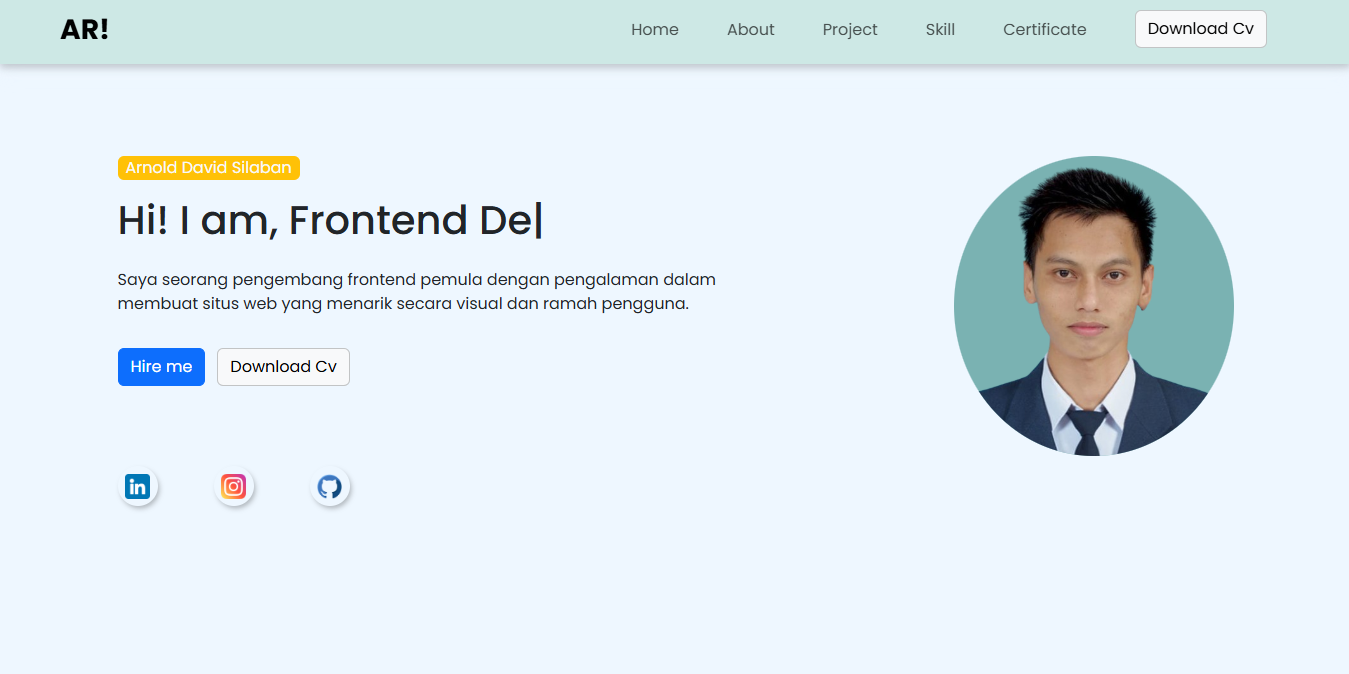
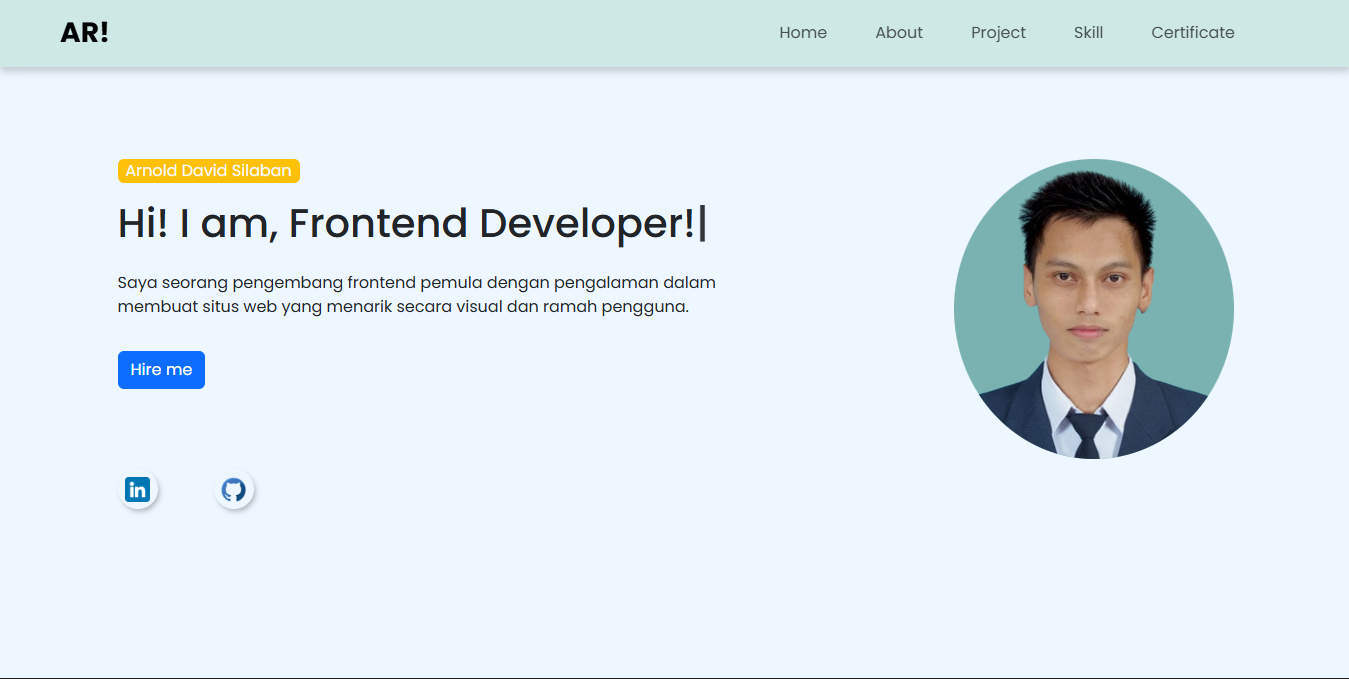
update content

diff --git a/components/pages/skill.tsx b/components/pages/skill.tsx
@@ -8,7 +8,6 @@ import {
   SiReact,
   SiNextdotjs,
   SiTailwindcss,
-  SiBootstrap,
   SiExpress,
   SiNodedotjs,
   SiLinux,
@@ -25,7 +24,6 @@ export default function Skill() {
     { name: "React", icon: <SiReact className="text-cyan-400" /> },
     { name: "Next.js", icon: <SiNextdotjs className="text-black" /> },
     { name: "Tailwind", icon: <SiTailwindcss className="text-cyan-500" /> },
-    { name: "Bootstrap", icon: <SiBootstrap className="text-purple-600" /> },
     { name: "ExpressJs", icon: <SiExpress className="text-black" /> },
     { name: "NodeJs", icon: <SiNodedotjs className="text-green-600" /> },
   ];
@@ -43,7 +41,7 @@ export default function Skill() {
       className="container mx-auto px-6 lg:px-12 py-20 bg-white"
     >
       <div className="text-center mb-16">
-        <h2 className="text-3xl font-bold mb-4">My Skills</h2>
+        <h2 className="text-3xl font-bold mb-4">Technical Skills</h2>
         <p className="text-gray-600 max-w-2xl mx-auto">
           Tools dan teknologi yang saya gunakan untuk membangun website dan
           infrastruktur jaringan.
@@ -51,9 +49,6 @@ export default function Skill() {
       </div>
 
       <div className="mb-12">
-        <h3 className="text-xl font-semibold text-center mb-8 text-gray-500">
-          Web Development
-        </h3>
         <div className="flex flex-wrap justify-center gap-6 md:gap-10">
           {webSkills.map((item, idx) => (
             <div
@@ -68,27 +63,21 @@ export default function Skill() {
               </span>
             </div>
           ))}
-        </div>
-      </div>
-
-      <div>
-        <h3 className="text-xl font-semibold text-center mb-8 text-gray-500">
-          Network & IT Support
-        </h3>
-        <div className="flex flex-wrap justify-center gap-6 md:gap-10">
-          {networkSkills.map((item, idx) => (
-            <div
-              key={idx}
-              className="group flex flex-col items-center gap-3 p-4 w-24 md:w-32 rounded-xl border border-transparent hover:border-gray-100 hover:shadow-lg hover:-translate-y-2 transition-all duration-300 cursor-default"
-            >
-              <div className="text-4xl md:text-5xl group-hover:scale-110 transition-transform duration-300">
-                {item.icon}
+          <div className="flex flex-wrap justify-center gap-6 md:gap-10">
+            {networkSkills.map((item, idx) => (
+              <div
+                key={idx}
+                className="group flex flex-col items-center gap-3 p-4 w-24 md:w-32 rounded-xl border border-transparent hover:border-gray-100 hover:shadow-lg hover:-translate-y-2 transition-all duration-300 cursor-default"
+              >
+                <div className="text-4xl md:text-5xl group-hover:scale-110 transition-transform duration-300">
+                  {item.icon}
+                </div>
+                <span className="text-sm font-medium text-gray-600 group-hover:text-black">
+                  {item.name}
+                </span>
               </div>
-              <span className="text-sm font-medium text-gray-600 group-hover:text-black">
-                {item.name}
-              </span>
-            </div>
-          ))}
+            ))}
+          </div>
         </div>
       </div>
     </section>

diff --git a/components/pages/experience.tsx b/components/pages/experience.tsx
@@ -9,7 +9,7 @@ export default function Experience() {
     {
       role: "Freelance IT Technician",
       company: "Self-Employed",
-      date: "2022 - Sekarang",
+      date: "2023 - Sekarang",
       location: "Remote / On-site",
       desc: "Menyediakan jasa perbaikan perangkat keras dan lunak secara mandiri. Berhasil mendiagnosa dan memperbaiki berbagai masalah laptop/PC klien, melakukan instalasi ulang OS (Windows/Linux), serta memberikan konsultasi upgrade spesifikasi hardware untuk performa optimal.",
       skills: [
@@ -24,7 +24,7 @@ export default function Experience() {
       company: "SMK Canda Bhirawa Pare",
       date: "Juli 2021 - Januari 2022",
       location: "Kediri, Jawa Timur",
-      desc: "Bertanggung jawab atas pemeliharaan laboratorium komputer. Berkolaborasi dengan tim dalam pembangunan lab baru (setup 30+ PC), konfigurasi jaringan LAN, serta troubleshooting rutin hardware dan software untuk mendukung kegiatan belajar mengajar.",
+      desc: "Bertanggung jawab atas pemeliharaan laboratorium komputer. Berkolaborasi dengan tim dalam pembangunan lab baru dan melakukan setup 30+ PC, konfigurasi jaringan LAN, serta troubleshooting rutin hardware dan software untuk mendukung kegiatan belajar mengajar.",
       skills: ["LAN Setup", "PC Assembly", "Network Configuration", "Teamwork"],
     },
   ];

diff --git a/components/pages/about.tsx b/components/pages/about.tsx
@@ -8,15 +8,15 @@ export default function About() {
       <div className="bg-[#1A73E8] text-white rounded-3xl p-8 lg:p-16 text-center shadow-2xl shadow-blue-200">
         <h2 className="text-3xl font-bold mb-6">About Me</h2>
         <p className="text-blue-100 text-lg max-w-3xl mx-auto leading-relaxed mb-10">
-          Hai! Saya David, lulusan SMK Teknik Komputer & Jaringan, {""} saya
-          punya skill dalam melakukan troubleshooting hardware dan software pada
-          komputer, instalasi OS, rakit PC.
+          Lulusan TKJ yang memiliki pemahaman kuat di Hardware & Jaringan, serta
+          antusias mempelajari sistem manajemen bisnis (POS/ERP) untuk membantu
+          operasional perusahaan
           <br />
           <br />
           <span>
             Dan juga saya suka mengikuti perkembangan teknologi hardware pada
-            komputer. Kesibukaan saya sekarang belajar coding untuk menjadi
-            fullstack web developer!
+            komputer. Saat ini saya aktif mendalami pengembangan sistem berbasis
+            web.
           </span>
         </p>
 

diff --git a/components/pages/hero.tsx b/components/pages/hero.tsx
@@ -30,8 +30,9 @@ const Hero = () => {
             </h1>
           </div>
           <p className="text-black max-w-lg mx-auto md:mx-0 leading-relaxed">
-            Saya seorang pengembang website pemula dengan pengalaman dalam
-            membuat situs web yang menarik secara visual dan ramah pengguna.
+            IT Support Specialist yang memiliki passion dalam Network
+            Infrastructure dan Web Technologies untuk menciptakan sistem yang
+            efisien
           </p>
           <div className="flex gap-4 justify-center lg:justify-start pt-2">
             <Button

diff --git a/components/pages/projects.tsx b/components/pages/projects.tsx
@@ -17,7 +17,7 @@ export default function Projects() {
   const projects = [
     {
       title: "POS App (Point of Sales)",
-      desc: "Aplikasi kasir realtime dengan fitur manajemen stok, transaksi, dan laporan penjualan.",
+      desc: "Aplikasi kasir realtime dengan fitur manajemen stok, transaksi, dan laporan penjualan. Simulasi sistem kasir real-time. Memahami alur data transaksi, database stok, dan integrasi hardware basic",
       tags: ["Typscript", "Next.js App", "Supabase", "Midtrans", "Tailwind"],
       image: "/cafepos.png",
       demo: "#",
